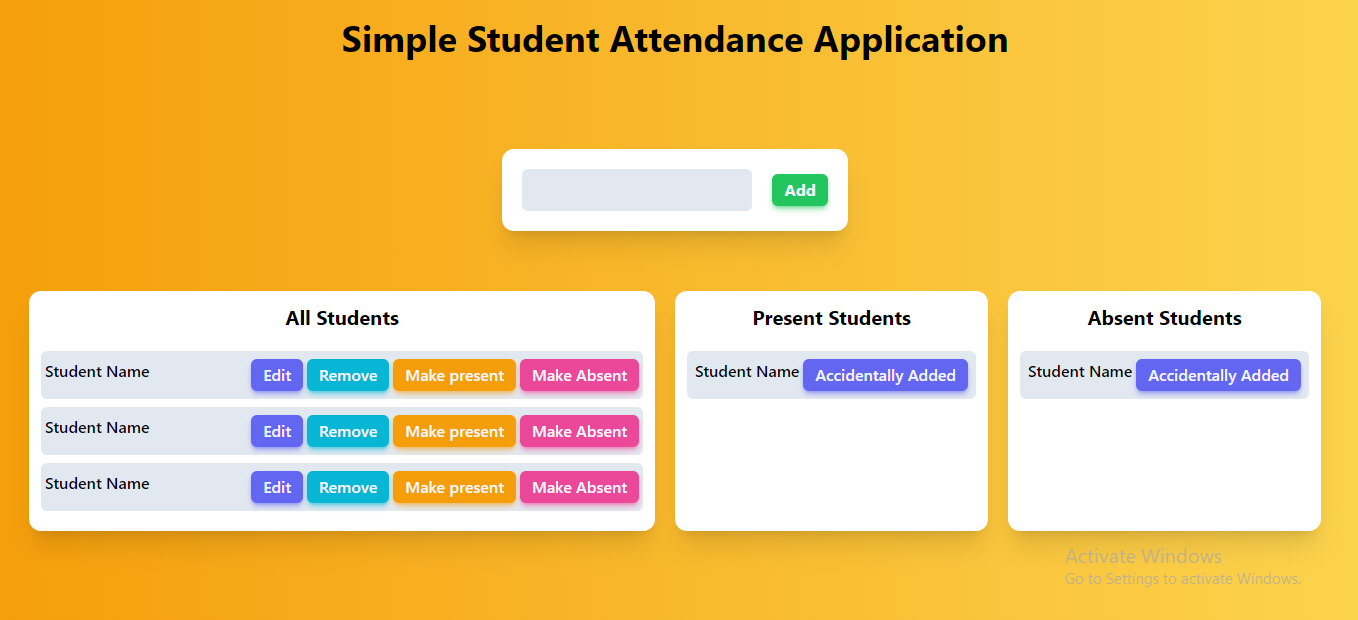
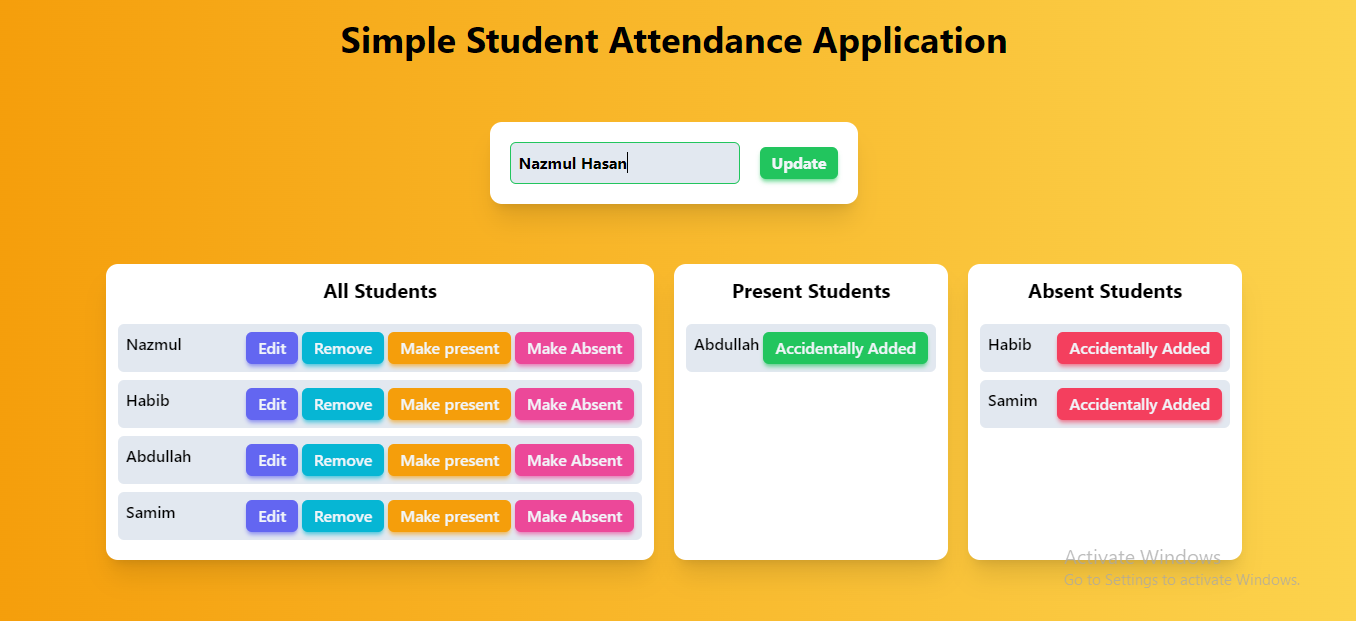
simple student attendance application

diff --git a/src/App.js b/src/App.js
@@ -1,89 +1,197 @@
+import { useState } from "react";
+
 function App() {
+  const [studentName, setStudentName] = useState("");
+  const [allStudents, setAllStudents] = useState([]);
+  const [editMode, setEditMode] = useState(false);
+  const [editableStudent, setEditableStudent] = useState(null);
+
+  const addStudent = (e) => {
+    e.preventDefault();
+    if (!studentName) {
+      alert("Please type a valid name");
+      return;
+    }
+    setAllStudents([
+      {
+        id: Date.now() + "",
+        name: studentName,
+        isPresent: undefined,
+      },
+      ...allStudents,
+    ]);
+    setStudentName("");
+  };
+
+  const editHandler = (studentId) => {
+    setEditMode(true);
+    const toBeEdited = allStudents.find((student) => student.id === studentId);
+    setEditableStudent(toBeEdited);
+    setStudentName(toBeEdited.name);
+  };
+
+  const updateHandler = (e) => {
+    e.preventDefault();
+    if (!studentName) {
+      alert("Please enter a vali name");
+      return;
+    }
+    const newStudentsList = allStudents.map((student) => {
+      if (student.id === editableStudent.id) {
+        student.name = studentName;
+      }
+      return student;
+    });
+    setAllStudents(newStudentsList);
+    setEditMode(false);
+    setEditableStudent(null);
+    setStudentName("");
+  };
+
+  const removeStudent = (studentId) => {
+    const newStudentsList = allStudents.filter(
+      (student) => student.id !== studentId
+    );
+    setAllStudents(newStudentsList);
+  };
+
+  const makePresentHandler = (studentId) => {
+    const newStudentsList = allStudents.map((student) => {
+      if (student.id === studentId) {
+        if (student.isPresent === undefined) {
+          student.isPresent = true;
+        }
+      }
+      return student;
+    });
+    setAllStudents(newStudentsList);
+  };
+
+  const makeAbsentHandler = (studentId) => {
+    const newStudentsList = allStudents.map((student) => {
+      if (student.id === studentId) {
+        if (student.isPresent === undefined) {
+          student.isPresent = false;
+        }
+      }
+      return student;
+    });
+    setAllStudents(newStudentsList);
+  };
+
+  const accidentallyAddedHandler = (studentId) => {
+    const newStudentsList = allStudents.map((student) => {
+      if (student.id === studentId) {
+        student.isPresent = !student.isPresent;
+      }
+      return student;
+    });
+    setAllStudents(newStudentsList);
+  };
+
   return (
     <div className="min-h-screen  bg-gradient-to-r from-amber-500 to-amber-300">
       <h1 className="text-center text-4xl font-bold py-5">
         Simple Student Attendance Application
       </h1>
       <div className="flex flex-col items-center justify-center custom-height">
-        <form className="mb-10 bg-white shadow-xl p-5 rounded-xl text-center font-bold flex justify-center items-center gap-5">
+        <form
+          onSubmit={(e) => (editMode ? updateHandler(e) : addStudent(e))}
+          className="mb-10 bg-white shadow-xl p-5 rounded-xl text-center font-bold flex justify-center items-center gap-5"
+        >
           <input
             type="text"
+            value={studentName}
+            onChange={(e) => setStudentName(e.target.value)}
             className="p-2 rounded-md bg-slate-200 w-full border border-slate-200 focus:border-green-500 outline-0"
           />
-          <button className="btn bg-green-500 shadow-green-500/50">Add</button>
+          <button className="btn bg-green-500 shadow-green-500/50">
+            {editMode ? "Update" : "Add"}
+          </button>
         </form>
         <div className="grid grid-cols-[2fr_1fr_1fr] gap-5 p-5">
-          <div className="bg-white shadow-xl rounded-xl text-center p-3">
+          <div
+            className={`bg-white shadow-xl rounded-xl text-center p-3 ${
+              allStudents.length > 4 && "overflow-y-scroll"
+            }  max-h-[50vh]`}
+          >
             <h2 className="mb-5 text-xl font-bold">All Students</h2>
-            <div className="flex justify-between gap-3 font-semibold my-2 bg-slate-200 px-1 py-2 rounded-md">
-              <p>Student Name</p>
-              <div className=" flex gap-1">
-                <button className="btn  bg-indigo-500 shadow-indigo-500/50">
-                  Edit
-                </button>
-                <button className="btn  bg-cyan-500 shadow-cyan-500/50">
-                  Remove
-                </button>
-                <button className="btn  bg-amber-500 shadow-amber-500/50">
-                  Make present
-                </button>
-                <button className="btn  bg-pink-500 shadow-pink-500/50">
-                  Make Absent
-                </button>
+            {allStudents.map((student) => (
+              <div
+                key={student.id}
+                className="flex justify-between gap-3 font-semibold my-2 bg-slate-200 p-2 rounded-md"
+              >
+                <p>{student.name}</p>
+                <div className=" flex gap-1">
+                  <button
+                    onClick={() => editHandler(student.id)}
+                    className="btn  bg-indigo-500 shadow-indigo-500/50"
+                  >
+                    Edit
+                  </button>
+                  <button
+                    onClick={() => removeStudent(student.id)}
+                    className="btn  bg-cyan-500 shadow-cyan-500/50"
+                  >
+                    Remove
+                  </button>
+                  <button
+                    onClick={() => makePresentHandler(student.id)}
+                    className="btn  bg-amber-500 shadow-amber-500/50"
+                  >
+                    Make present
+                  </button>
+                  <button
+                    onClick={() => makeAbsentHandler(student.id)}
+                    className="btn  bg-pink-500 shadow-pink-500/50"
+                  >
+                    Make Absent
+                  </button>
+                </div>
               </div>
-            </div>
-            <div className="flex justify-between gap-3 font-semibold my-2 bg-slate-200 px-1 py-2 rounded-md">
-              <p>Student Name</p>
-              <div className=" flex gap-1">
-                <button className="btn  bg-indigo-500 shadow-indigo-500/50">
-                  Edit
-                </button>
-                <button className="btn  bg-cyan-500 shadow-cyan-500/50">
-                  Remove
-                </button>
-                <button className="btn  bg-amber-500 shadow-amber-500/50">
-                  Make present
-                </button>
-                <button className="btn  bg-pink-500 shadow-pink-500/50">
-                  Make Absent
-                </button>
-              </div>
-            </div>
-            <div className="flex justify-between gap-3 font-semibold my-2 bg-slate-200 px-1 py-2 rounded-md">
-              <p>Student Name</p>
-              <div className=" flex gap-1">
-                <button className="btn  bg-indigo-500 shadow-indigo-500/50">
-                  Edit
-                </button>
-                <button className="btn  bg-cyan-500 shadow-cyan-500/50">
-                  Remove
-                </button>
-                <button className="btn  bg-amber-500 shadow-amber-500/50">
-                  Make present
-                </button>
-                <button className="btn  bg-pink-500 shadow-pink-500/50">
-                  Make Absent
-                </button>
-              </div>
-            </div>
+            ))}
           </div>
-          <div className="bg-white shadow-xl rounded-xl text-center p-3">
+          <div
+            className={`bg-white shadow-xl rounded-xl text-center p-3 ${
+              allStudents.length > 4 && "overflow-y-scroll"
+            }  max-h-[50vh]`}
+          >
             <h2 className="mb-5 text-xl font-bold">Present Students</h2>
-            <div className="flex flex-wrap gap-1 font-semibold my-2 bg-slate-200 p-2 rounded-md">
-              <p>Student Name</p>
-              <button className="btn  bg-indigo-500 shadow-indigo-500/50">
-                Accidentally Added
-              </button>
-            </div>
+            {allStudents.map(
+              (student) =>
+                student.isPresent && (
+                  <div className="flex justify-between flex-wrap gap-1 font-semibold my-2 bg-slate-200 p-2 rounded-md">
+                    <p>{student.name}</p>
+                    <button
+                      onClick={() => accidentallyAddedHandler(student.id)}
+                      className="btn  bg-green-500 shadow-green-500/50"
+                    >
+                      Accidentally Added
+                    </button>
+                  </div>
+                )
+            )}
           </div>
-          <div className="bg-white shadow-xl rounded-xl text-center p-3">
+          <div
+            className={`bg-white shadow-xl rounded-xl text-center p-3 ${
+              allStudents.length > 4 && "overflow-y-scroll"
+            }  max-h-[50vh]`}
+          >
             <h2 className="mb-5 text-xl font-bold">Absent Students</h2>
-            <div className="flex flex-wrap gap-1 font-semibold my-2 bg-slate-200 p-2 rounded-md">
-              <p>Student Name</p>
-              <button className="btn  bg-indigo-500 shadow-indigo-500/50">
-                Accidentally Added
-              </button>
-            </div>
+            {allStudents.map(
+              (student) =>
+                student.isPresent === false && (
+                  <div className="flex justify-between flex-wrap gap-1 font-semibold my-2 bg-slate-200 p-2 rounded-md">
+                    <p>{student.name}</p>
+                    <button
+                      onClick={() => accidentallyAddedHandler(student.id)}
+                      className="btn  bg-rose-500 shadow-rose-500/50"
+                    >
+                      Accidentally Added
+                    </button>
+                  </div>
+                )
+            )}
           </div>
         </div>
       </div>
@@ -92,60 +200,3 @@ function App() {
 }
 
 export default App;
-
-// <form
-//   onSubmit={(e) => {
-//     editMode ? updateHandler(e) : createHandler(e);
-//   }}
-//   className="mb-10 bg-white shadow-xl p-5 rounded-xl text-center font-bold flex justify-center items-center gap-5"
-// >
-//   <input
-//     type="text"
-//     value={noteTitle}
-//     onChange={(e) => setNoteTitle(e.target.value)}
-//     className="p-2 rounded-md bg-slate-200 w-full border border-slate-200 focus:border-cyan-500 outline-0"
-//   />
-//   <button
-//     type="submit"
-//     className="btn bg-cyan-500 shadow-cyan-500/50"
-//   >
-//     {editMode ? "Update" : "Add"}
-//   </button>
-// </form>
-
-// <div
-//   className={`bg-white shadow-xl rounded-xl text-center font-bold p-5  ${
-//     notes.length === 0 ? "hidden" : "block"
-//   }`}
-// >
-//   <div
-//     className={` max-h-[300px] ${
-//       notes.length >= 4 && "overflow-y-scroll"
-//     }`}
-//   >
-//     {notes.map((note) => (
-//       <div
-//         key={note.id}
-//         className="bg-slate-200 flex gap-5 items-center justify-between rounded-md p-3 my-3"
-//       >
-//         <p className="text-xl">{note.title}</p>
-//         <div className="flex gap-3">
-//           <button
-//             onClick={() => editHandler(note.id)}
-//             type="button"
-//             className="btn  bg-indigo-500 shadow-indigo-500/50"
-//           >
-//             Edit
-//           </button>
-//           <button
-//             onClick={() => removeHandler(note.id)}
-//             type="button"
-//             className="btn  bg-pink-500 shadow-pink-500/50"
-//           >
-//             Remove
-//           </button>
-//         </div>
-//       </div>
-//     ))}
-//   </div>
-// </div>
